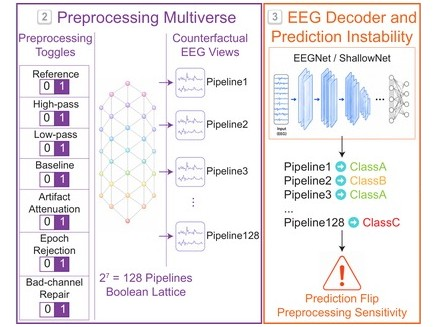
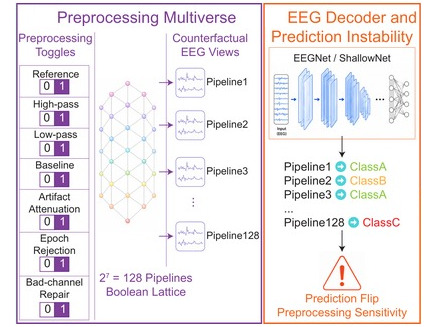
Polish the redesign after a multi-angle review
- hold running text to about 70 characters (--measure 34rem)
- bold the owner's name in talk author lines
- show teaching periods as one date range (date_end front matter and a
  shared date-range include) on the CV, Teaching list and detail pages
- keep meta rows from leaving a dangling "|" or a lone date after a
  wrapped venue; hide the separators from screen readers
- restore full citations in the CV publication list and the "(English)"
  note on poster types
- use the date style for hand-written CV dates; Inter subheadings in
  the CV Service section
- clean the research thumbnails (painted-out panel labels, sharper
  export) and cap their width on phones
- keep the sidebar bio from breaking mid-phrase at 925-1023px
- add a hidden "Research themes" h2 so headings don't skip a level;
  palette focus rings for the masthead, skip link and category chips
- underline footer links; mark the Chinese co-author name lang="zh"
- list only HTML pages in the sitemap and page archive

Claude-Session: https://claude.ai/code/session_01TQgfhfabUmASvo8nK2dYDe

diff --git a/_includes/head/styles/lists.css b/_includes/head/styles/lists.css
@@ -53,11 +53,20 @@
     color: var(--muted);
   }
   .list-entry__authors strong { font-weight: 600; color: var(--ink); white-space: nowrap; }
+  /* CV: the full reference, whose DOI or OpenReview URL must wrap. */
+  .list-entry .list-entry__citation { overflow-wrap: anywhere; }
+  /* The site owner's name in a presentation's author line. */
+  .page__content .author-self { font-weight: 600; white-space: nowrap; }
 
-  /* Meta line: optional type tag, then venue | location | date, divided by
-     light rules. The rule is a text "|" after each item: a line may break
-     after it but never before it, so a wrapped line never starts with one.
-     Shared with the detail-page header. */
+  /* Meta line: optional type tag, then venue | location | date. The row
+     flows inline, so a wrapped venue's last line can still hold the
+     location and date. Each item after a non-tag item is an inline-block
+     that draws a light "|" in the gap before it, inside its own left
+     padding, which a negative margin pulls back over that gap. An item that
+     starts a new line therefore sits flush at the edge with its divider
+     outside the row, where the clip hides it; no line ends with one either,
+     because the divider belongs to the item after it. Shared with the
+     detail-page header. */
   .list-entry .list-entry__meta,
   .archive__item .page__meta,
   .detail-meta {
@@ -67,13 +76,33 @@
     line-height: 1.65;
     color: var(--muted);
   }
-  :is(.list-entry__meta, .detail-meta) > :not(.tag):not(:last-child)::after {
+  :is(.list-entry__meta, .detail-meta) {
+    --meta-gap: 1rem;
+    display: block;
+    clip-path: inset(-0.5rem -0.5rem -0.5rem 0);
+  }
+  /* The item before a divider ends with (gap - one space); with the space
+     itself and the next item's padding less its margin, the mid-line gap
+     is about one --meta-gap, with the divider centred in it. */
+  :is(.list-entry__meta, .detail-meta) > :not(.tag):has(+ *) {
+    margin-right: calc(var(--meta-gap) - 0.25em);
+  }
+  :is(.list-entry__meta, .detail-meta) > :not(.tag) + * {
+    display: inline-block;
+    position: relative;
+    padding-left: var(--meta-gap);
+    margin-left: calc(-1 * var(--meta-gap));
+  }
+  :is(.list-entry__meta, .detail-meta) > :not(.tag) + *::before {
     content: "|";
-    margin: 0 0.15em 0 0.5em;
+    content: "|" / "";
+    position: absolute;
+    left: calc(var(--meta-gap) / 2);
+    transform: translateX(-50%);
     color: var(--line-strong);
     font-weight: 400;
   }
-  :is(.list-entry__meta, .detail-meta) > .date { white-space: nowrap; }
+  /* A tag sits closer to the item after it, which draws no divider. */
   :is(.list-entry__meta, .detail-meta) > .tag {
     margin-right: 0.3rem;
     vertical-align: 0.05em;
@@ -84,10 +113,11 @@
     background: rgba(15,118,110,0.06);
   }
 
-  /* One-paragraph summary: serif, muted, held to three lines. */
+  /* One-paragraph summary: serif, muted, held to four lines. This smaller
+     text gets its own cap (64ch, about 70 characters) within the measure. */
   .list-entry .list-entry__excerpt,
   .archive__item .archive__item-excerpt {
-    max-width: var(--measure);
+    max-width: min(var(--measure), 64ch);
     margin: 0.45rem 0 0;
     font-family: var(--font-serif);
     font-size: 0.9375rem;
@@ -97,8 +127,8 @@
   .list-entry__excerpt {
     display: -webkit-box;
     -webkit-box-orient: vertical;
-    -webkit-line-clamp: 3;
-    line-clamp: 3;
+    -webkit-line-clamp: 4;
+    line-clamp: 4;
     overflow: hidden;
   }
 
@@ -231,6 +261,7 @@
     text-transform: capitalize;
   }
   .page__taxonomy a.page__taxonomy-item:hover { color: var(--p); border-color: rgba(30,58,95,0.45); }
+  .page__taxonomy a.page__taxonomy-item:focus-visible { outline: 2px solid var(--a); outline-offset: 2px; }
 
   /* Previous / next: quiet text links over a hairline. Floated full width
      like the theme's footer above it, so the top margin is not swallowed

diff --git a/_includes/head/styles/chrome.css b/_includes/head/styles/chrome.css
@@ -33,9 +33,20 @@
     color: #fff !important;
     border-bottom: 2px solid var(--a) !important;
   }
-  .greedy-nav button:focus-visible {
+  .greedy-nav button:focus-visible,
+  .masthead a:focus-visible {
     outline: 2px solid var(--a-on-dark) !important;
     outline-offset: 2px;
+    border-radius: 2px;
+  }
+  /* The skip link appears over the light page, not the navy bar. */
+  .screen-reader-shortcut:focus {
+    outline: 2px solid var(--a) !important;
+    outline-offset: 2px;
+    background: var(--p) !important;
+    color: #ffffff !important;
+    font-family: var(--font-sans);
+    box-shadow: none !important;
   }
 
   /* ── Sidebar ──────────────────────────── */
@@ -61,8 +72,13 @@
     line-height: 1.5;
   }
   /* The bio is split at its commas (author-profile.html): each part stays
-     whole, so it wraps between parts rather than mid-phrase. */
+     whole, so it wraps between parts rather than mid-phrase. In the narrow
+     fixed sidebar (925-1023px) a slightly smaller size keeps the longest
+     part within the column. */
   .author__bio > span { display: inline-block; }
+  @media (min-width: 925px) and (max-width: 1023.98px) {
+    .author__bio { font-size: 0.75rem !important; }
+  }
 
   /* Links and facts: one icon column, one icon colour. Long items wrap with
      a hanging indent instead of being clipped. */
@@ -132,6 +148,14 @@
     color: var(--a-on-dark) !important;
     text-decoration: underline;
   }
+  /* Links in the muted meta line share its colour, so they carry a quiet
+     underline at rest (as in running text) that firms up on hover. */
+  .page__footer .site-footer__meta a,
+  .page__footer .site-footer__meta a:visited {
+    text-decoration: underline;
+    text-decoration-color: rgba(148,163,184,0.45);
+  }
+  .page__footer .site-footer__meta a:hover { text-decoration-color: currentColor; }
   .page__footer a:focus-visible {
     outline: 2px solid var(--a-on-dark);
     outline-offset: 2px;
@@ -149,8 +173,11 @@
     font-weight: 500;
     line-height: 1.5;
   }
+  /* The copyright is plain text: muted and regular, unlike the links. */
+  .site-footer__copyright { color: #94a3b8; font-weight: 400; }
   .site-footer__links li + li::before {
     content: "\00b7";
+    content: "\00b7" / "";
     margin: 0 0.6em;
     color: #94a3b8;
   }
@@ -167,7 +194,6 @@
     line-height: 1.5;
   }
   .site-footer__meta .sep { margin: 0 0.15em; }
-  .site-footer__meta .nowrap { white-space: nowrap; }
 
   /* ── Responsive ───────────────────────── */
   /* Below the theme's $large (925px) the sidebar is a compact row above

diff --git a/_includes/archive-single-cv.html b/_includes/archive-single-cv.html
@@ -1,22 +1,21 @@
 {% comment %}
   Compact CV entry (publications and teaching), emitted as an <li> because
-  the CV page wraps these in a <ul>. Publications show the authors (site
-  owner in bold) and venue/year; other items show type, venue and date.
+  the CV page wraps these in a <ul>. Publications show the full reference
+  (site owner in bold), with its arXiv ID, DOI or volume; other items show
+  type, venue and the date or period (date_end).
 {% endcomment %}
 {% include base_path %}
 {% assign entry_title = post.title | markdownify | remove: "<p>" | remove: "</p>" | strip %}
 <li class="list-entry list-entry--compact" itemscope itemtype="http://schema.org/CreativeWork">
   <h3 class="list-entry__title" itemprop="headline"{% if post.title_lang %} lang="{{ post.title_lang }}"{% endif %}><a href="{{ base_path }}{{ post.url }}" rel="permalink">{{ entry_title }}</a></h3>
   {% if post.collection == "publications" %}
-    {% assign citation_year = post.date | date: '%Y' | prepend: '(' | append: ').' %}
-    {% assign entry_authors = post.citation | split: citation_year | first | strip | replace: 'Hou, D.', '<strong>Hou, D.</strong>' %}
-    {% if entry_authors != "" %}<p class="list-entry__authors">{{ entry_authors }}</p>{% endif %}
-    <p class="list-entry__meta"><span{% if post.venue_lang %} lang="{{ post.venue_lang }}"{% endif %}>{{ post.venue }}</span> <time class="date" datetime="{{ post.date | date: '%Y' }}">{{ post.date | date: '%Y' }}</time></p>
+    {% assign entry_citation = post.citation | strip | replace: 'Hou, D.', '<strong>Hou, D.</strong>' %}
+    {% if entry_citation != "" %}<p class="list-entry__authors list-entry__citation">{{ entry_citation }}</p>{% else %}<p class="list-entry__meta"><span{% if post.venue_lang %} lang="{{ post.venue_lang }}"{% endif %}>{{ post.venue }}</span> <time class="date" datetime="{{ post.date | date: '%Y' }}">{{ post.date | date: '%Y' }}</time></p>{% endif %}
   {% else %}
     <p class="list-entry__meta">
       {% if post.type %}<span class="tag">{{ post.type }}</span>{% endif %}
       {% if post.venue %}<span{% if post.venue_lang %} lang="{{ post.venue_lang }}"{% endif %}>{{ post.venue }}</span>{% endif %}
-      {% if post.date %}<time class="date" datetime="{{ post.date | date: '%Y-%m-%d' }}">{{ post.date | date: '%b %Y' }}</time>{% endif %}
+      {% if post.date %}{% include date-range.html start=post.date end=post.date_end %}{% endif %}
     </p>
   {% endif %}
 </li>

diff --git a/_includes/research-themes.html b/_includes/research-themes.html
@@ -1,8 +1,9 @@
-<section class="research-themes" aria-label="Research themes">
+<section class="research-themes" aria-labelledby="research-themes-heading">
+  <h2 class="sr-only" id="research-themes-heading">Research themes</h2>
   <div class="research-theme">
     <p class="research-theme__label"><span class="tag tag--ai4brain">AI4Brain</span></p>
     <h3 class="research-theme__title">AI for understanding the brain</h3>
-    <p class="research-theme__text">Reliable decoding and automated analysis of EEG, and the neural basis of self-initiated attention, studied with EEG, eye tracking and computational modelling.</p>
+    <p class="research-theme__text">Reliable decoding and automated analysis of EEG, and understanding self-initiated attention through EEG, eye tracking, and computational modeling.</p>
     <ul class="research-theme__keywords">
       <li>Preprocessing instability</li>
       <li>Per-trial uncertainty</li>
@@ -20,7 +21,7 @@
   <div class="research-theme">
     <p class="research-theme__label"><span class="tag tag--brain4ai">Brain4AI</span></p>
     <h3 class="research-theme__title">Brain and cognitive science for understanding and improving AI</h3>
-    <p class="research-theme__text">Drawing on cognitive neuroscience to understand, evaluate and improve AI systems, especially large language models.</p>
+    <p class="research-theme__text">Drawing on cognitive neuroscience to understand, evaluate, and improve AI systems, especially large language models.</p>
     <ul class="research-theme__keywords">
       <li>Working memory</li>
       <li>Cumulative state tracking</li>

diff --git a/_includes/head/styles/home.css b/_includes/head/styles/home.css
@@ -48,6 +48,7 @@
   .research-theme__keywords li { margin: 0; }
   .research-theme__keywords li:not(:last-child)::after {
     content: "·";
+    content: "·" / "";
     margin: 0 0.5rem;
     color: var(--line-strong);
     font-weight: 700;
@@ -144,8 +145,10 @@
     font-size: 0.8125rem;
     font-weight: 600;
     line-height: 1.5;
-    font-variant-numeric: tabular-nums;
   }
+  /* The year (a .date) keeps its separator, so a long venue never leaves
+     "·" at a line end with the year alone below. */
+  .research-card__venue .research-card__year { white-space: nowrap; }
   .research-card__body > p:not([class]) {
     margin: 0 0 1rem;
     color: var(--muted);
@@ -198,6 +201,9 @@
   }
   @media (max-width: 639px) {
     .research-grid { grid-template-columns: minmax(0, 1fr); }
+    /* Stacked cards: about the crops' native width, so they are not
+       blown up (and do not take over the card) on wider phones. */
+    .research-card__figure img { max-width: 22rem; margin-inline: auto; }
     .research-themes { grid-template-columns: minmax(0, 1fr); padding: 1.1rem 1.1rem 1rem; }
     .research-themes__loop { padding: 0.75rem 0; }
     .research-themes__loop svg { transform: rotate(90deg); }

diff --git a/_includes/date-range.html b/_includes/date-range.html
@@ -1,0 +1,7 @@
+{% comment %}
+  A date, or a period when the entry has an end date, in the one date style.
+  include.start: the start date; include.end: an end date or "present";
+  include.format: the strftime format (default "%b %Y").
+  Output: <time class="date">Apr 2022</time>, or one .date span holding
+  "Apr 2022 – Mar 2025" / "Apr 2026 – present", which never splits.
+{% endcomment %}{% assign range_format = include.format | default: '%b %Y' %}{% if include.end %}<span class="date"><time datetime="{{ include.start | date: '%Y-%m-%d' }}">{{ include.start | date: range_format }}</time> – {% if include.end == 'present' %}present{% else %}<time datetime="{{ include.end | date: '%Y-%m-%d' }}">{{ include.end | date: range_format }}</time>{% endif %}</span>{% else %}<time class="date" datetime="{{ include.start | date: '%Y-%m-%d' }}">{{ include.start | date: range_format }}</time>{% endif %}

diff --git a/_includes/head/styles/base.css b/_includes/head/styles/base.css
@@ -21,8 +21,9 @@
     --font-sans: 'Inter', 'Noto Sans JP', -apple-system, BlinkMacSystemFont, 'Segoe UI', sans-serif;
     --font-serif: 'Source Serif 4', 'Noto Serif JP', Charter, Georgia, serif;
 
-    /* Comfortable line length for running text (about 70 characters). */
-    --measure: 42rem;
+    /* Comfortable line length for running text (about 70 characters of
+       the 1.06em serif body; 34rem is 612px at the theme's 18px root). */
+    --measure: 34rem;
   }
 
   /* The page background must also be on <html>: the footer's top margin
@@ -70,6 +71,8 @@
     letter-spacing: 0.01em;
     color: var(--a);
   }
+  /* A date or range ("Apr 2026 – present") never splits across lines. */
+  .date, .nowrap { white-space: nowrap; }
 
   /* ── Page title (h1) ──────────────────── */
   .page__title {

diff --git a/_includes/archive-single-talk.html b/_includes/archive-single-talk.html
@@ -8,7 +8,7 @@
 {% include base_path %}
 {% assign entry_heading = include.heading | default: "h3" %}
 {% assign entry_title = post.title | markdownify | remove: "<p>" | remove: "</p>" | strip %}
-{% assign entry_type = post.talk_type | default: post.type | remove: " presentation" | remove: " (English)" | strip %}
+{% assign entry_type = post.talk_type | default: post.type | remove: " presentation" | strip %}
 {% assign entry_excerpt = post.excerpt | markdownify | remove: "<p>" | remove: "</p>" | strip %}
 <article class="list-entry list-entry--talk" itemscope itemtype="http://schema.org/CreativeWork">
   <{{ entry_heading }} class="list-entry__title" itemprop="headline"{% if post.title_lang %} lang="{{ post.title_lang }}"{% endif %}><a href="{{ base_path }}{{ post.url }}" rel="permalink">{{ entry_title }}</a></{{ entry_heading }}>

diff --git a/_layouts/talk.html b/_layouts/talk.html
@@ -34,7 +34,7 @@ layout: default
             <p class="page__meta"><i class="fa fa-clock" aria-hidden="true"></i> {% include read-time.html %}</p>
           {% endif %}
           {% comment %} Same meta line as the Presentations list, with the full date. {% endcomment %}
-          {% assign talk_label = page.talk_type | default: page.type | remove: " presentation" | remove: " (English)" | strip %}
+          {% assign talk_label = page.talk_type | default: page.type | remove: " presentation" | strip %}
           <p class="detail-meta">
             {% if talk_label != "" %}<span class="tag{% if talk_label contains 'Invited' %} tag--invited{% endif %}">{{ talk_label }}</span>{% endif %}
             {% if page.venue %}<span{% if page.venue_lang %} lang="{{ page.venue_lang }}"{% endif %}>{{ page.venue }}</span>{% endif %}

diff --git a/_includes/selected-research.html b/_includes/selected-research.html
@@ -9,7 +9,7 @@
     <div class="research-card__body">
       <p class="research-card__theme"><span class="tag tag--{{ project.theme | downcase }}">{{ project.theme }}</span></p>
       <h3 class="research-card__title"><a href="{{ base_path }}{{ project.url }}">{{ project.title }}</a></h3>
-      <p class="research-card__venue">{{ project.venue | default: paper.venue }} · {{ paper.date | date: '%Y' }}</p>
+      <p class="research-card__venue">{{ project.venue | default: paper.venue }}<span class="research-card__year"> · <time class="date" datetime="{{ paper.date | date: '%Y' }}">{{ paper.date | date: '%Y' }}</time></span></p>
       {{ project.excerpt | markdownify }}
       <p class="research-card__links">
         <span class="research-card__more" aria-hidden="true">Read more →</span>

diff --git a/_includes/archive-single-talk-cv.html b/_includes/archive-single-talk-cv.html
@@ -4,7 +4,7 @@
 {% endcomment %}
 {% include base_path %}
 {% assign entry_title = post.title | markdownify | remove: "<p>" | remove: "</p>" | strip %}
-{% assign entry_type = post.talk_type | default: post.type | remove: " presentation" | remove: " (English)" | strip %}
+{% assign entry_type = post.talk_type | default: post.type | remove: " presentation" | strip %}
 <li class="list-entry list-entry--compact" itemscope itemtype="http://schema.org/CreativeWork">
   <h3 class="list-entry__title" itemprop="headline"{% if post.title_lang %} lang="{{ post.title_lang }}"{% endif %}><a href="{{ base_path }}{{ post.url }}" rel="permalink">{{ entry_title }}</a></h3>
   <p class="list-entry__meta">

diff --git a/_layouts/single.html b/_layouts/single.html
@@ -39,7 +39,7 @@ layout: default
               {% if page.type %}<span class="tag">{{ page.type }}</span>{% endif %}
               {% if page.venue %}<span{% if page.venue_lang %} lang="{{ page.venue_lang }}"{% endif %}>{{ page.venue }}</span>{% endif %}
               {% if page.location %}<span>{{ page.location }}</span>{% endif %}
-              {% if page.date %}<time class="date" datetime="{{ page.date | date: '%Y-%m-%d' }}">{{ page.date | date: '%b %Y' }}</time>{% endif %}
+              {% if page.date %}{% include date-range.html start=page.date end=page.date_end %}{% endif %}
             </p>
           {% elsif page.venue and page.date %}
             <p class="detail-meta">
